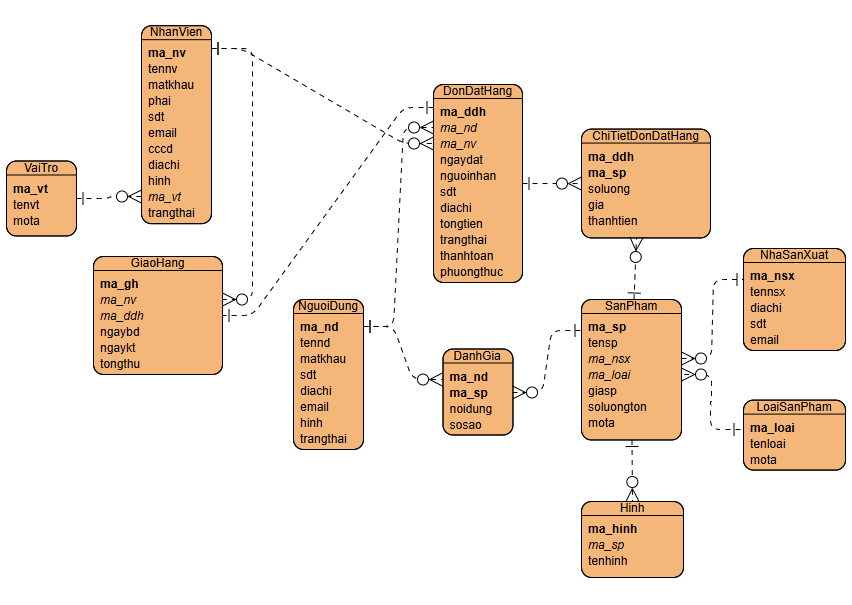
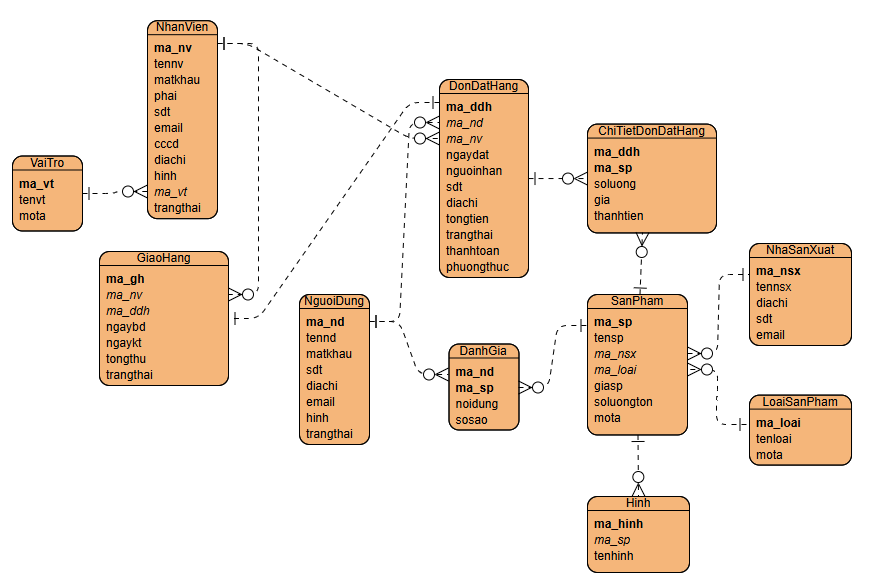
Fi

diff --git a/WebApp_BanNhacCu/WebApp_BanNhacCu/Models/ZyuukiMusicStoreContext.cs b/WebApp_BanNhacCu/WebApp_BanNhacCu/Models/ZyuukiMusicStoreContext.cs
@@ -235,6 +235,10 @@ namespace WebApp_BanNhacCu.Models
                     .HasColumnType("decimal(18, 2)")
                     .HasColumnName("tongthu");
 
+                entity.Property(e => e.Trangthai)
+                    .HasMaxLength(50)
+                    .HasColumnName("trangthai");
+
                 entity.HasOne(d => d.MaDdhNavigation)
                     .WithMany(p => p.GiaoHangs)
                     .HasForeignKey(d => d.MaDdh)

diff --git a/WebApp_BanNhacCu/WebApp_BanNhacCu/Models/GiaoHang.cs b/WebApp_BanNhacCu/WebApp_BanNhacCu/Models/GiaoHang.cs
@@ -11,6 +11,7 @@ namespace WebApp_BanNhacCu.Models
         public DateTime? Ngaybd { get; set; }
         public DateTime? Ngaykt { get; set; }
         public decimal? Tongthu { get; set; }
+        public string? Trangthai { get; set; }
 
         public virtual DonDatHang MaDdhNavigation { get; set; } = null!;
         public virtual NhanVien MaNvNavigation { get; set; } = null!;
